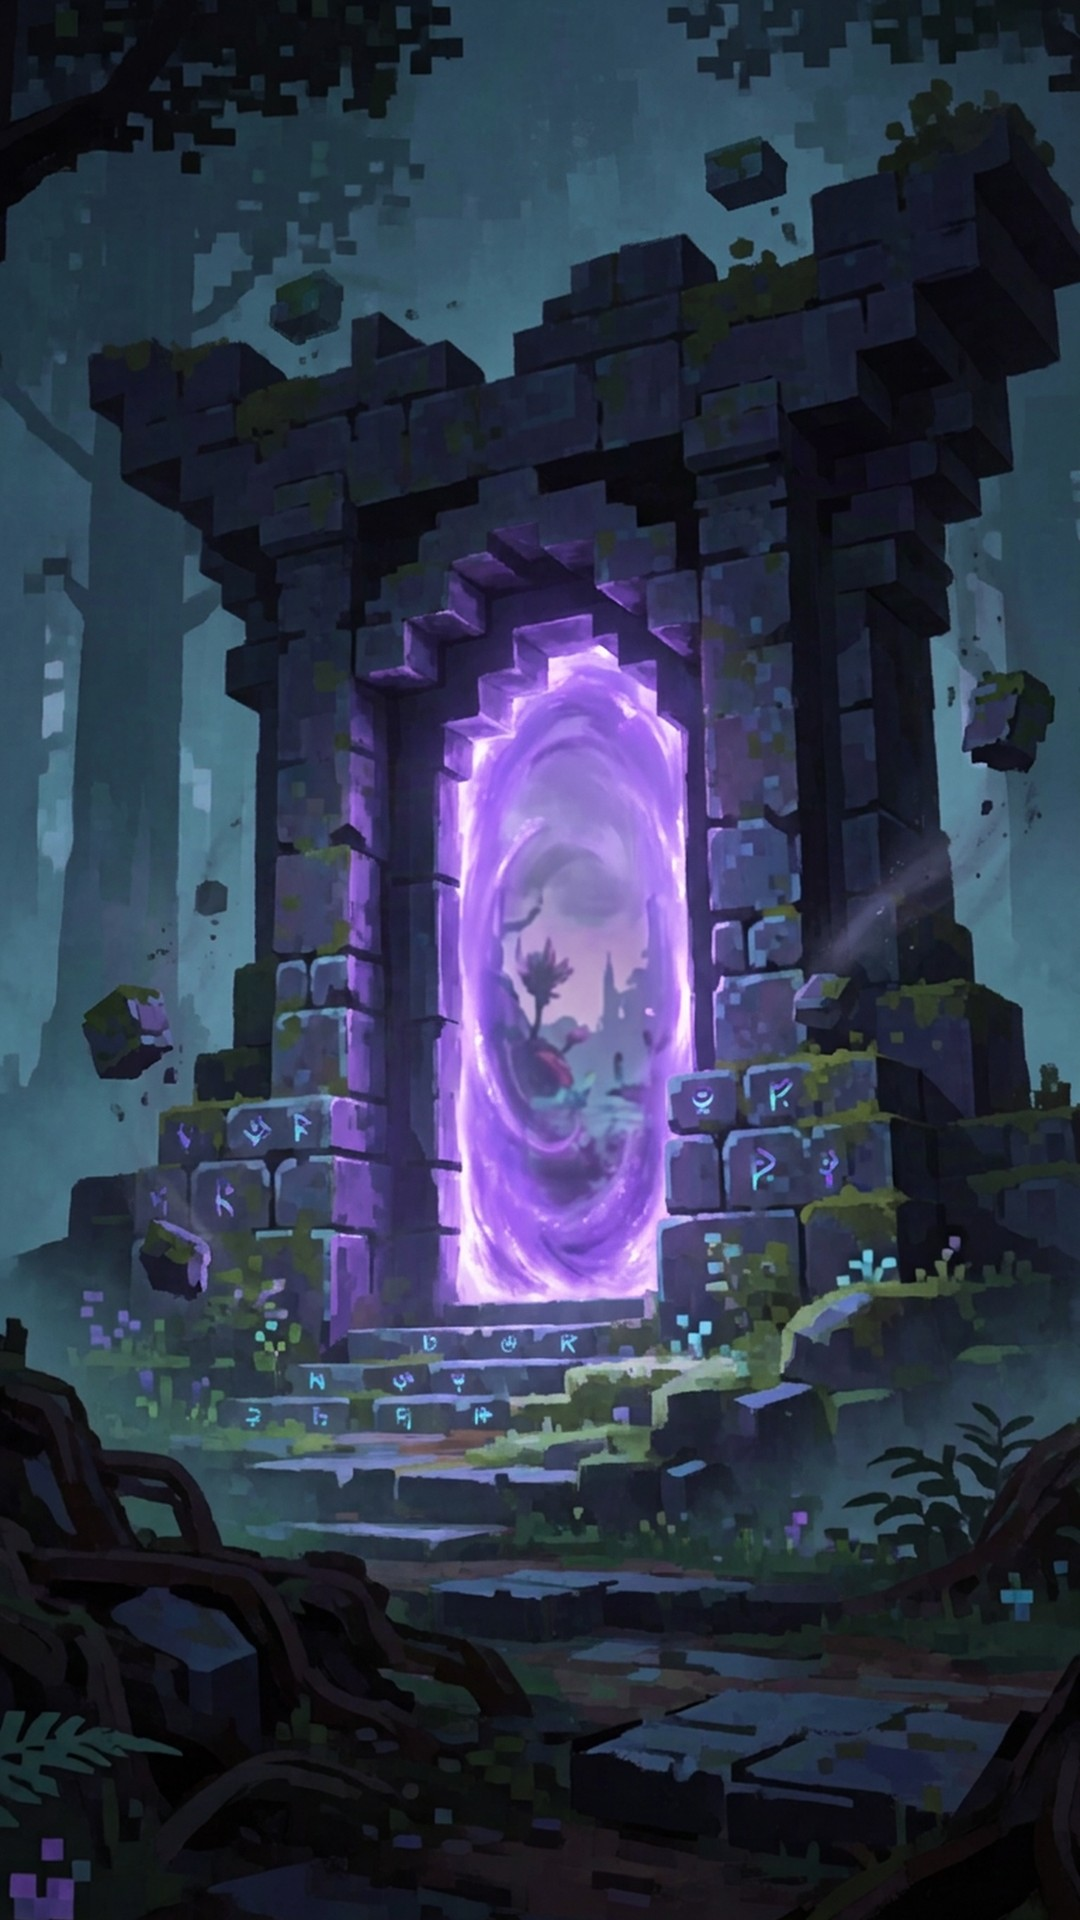
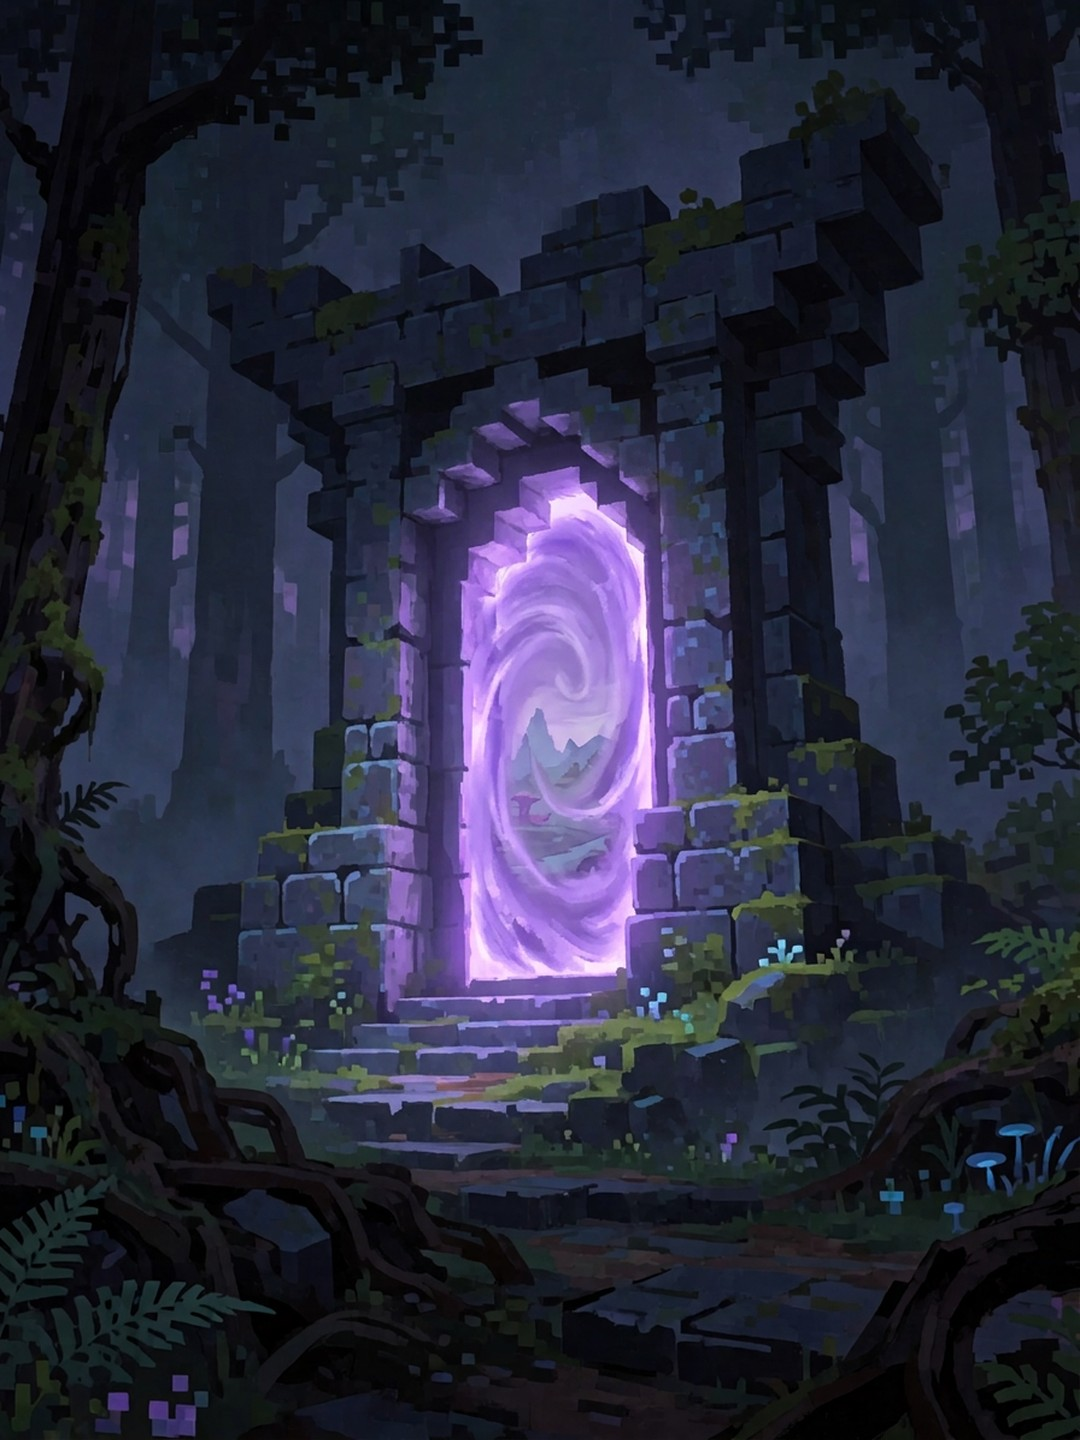
Use the 9:12 gates and the stone progress bar.
The install and update posters keep their full arch, and both working gates fill the stone bar.

diff --git a/src/bin/rus-gate.rs b/src/bin/rus-gate.rs
@@ -20,7 +20,7 @@ use std::time::Duration;
 
 const REPO: &str = "obsifox/rus";
 const WINDOW_W: f32 = 420.0;
-const WINDOW_H: f32 = 746.0;
+const WINDOW_H: f32 = 560.0;
 
 const BG: egui::Color32 = egui::Color32::from_rgb(0x16, 0x26, 0x5A);
 const SURFACE: egui::Color32 = egui::Color32::from_rgb(0x10, 0x19, 0x40);
@@ -108,6 +108,8 @@ struct Gate {
     install_blur: Option<egui::TextureHandle>,
     update_blur: Option<egui::TextureHandle>,
     logo: Option<egui::TextureHandle>,
+    bar_empty: Option<egui::TextureHandle>,
+    bar_fill: Option<egui::TextureHandle>,
 }
 
 impl Gate {
@@ -117,9 +119,13 @@ impl Gate {
         let (install_art, install_blur) = load_pair(&cc.egui_ctx, "gate-install", include_bytes!("../../assets/gate-install.jpg"));
         let (update_art, update_blur) = load_pair(&cc.egui_ctx, "gate-update", include_bytes!("../../assets/gate-update.jpg"));
         let logo = load_art(&cc.egui_ctx, "gate-logo", include_bytes!("../../assets/rus-logo-title.png"));
+        let bar_empty = load_art(&cc.egui_ctx, "bar-empty", include_bytes!("../../assets/progressbar-emp.png"));
+        let bar_fill = load_art(&cc.egui_ctx, "bar-fill", include_bytes!("../../assets/progress-fill.png"));
         let launch = shot.is_none() && (daily_launcher() || install_dir().is_some());
         let preview = shot.is_some();
-        let preview_update = preview && std::env::var("RUS_GATE_PREVIEW").ok().as_deref() == Some("update");
+        let preview_kind = std::env::var("RUS_GATE_PREVIEW").ok();
+        let preview_update = preview && preview_kind.as_deref() == Some("update");
+        let preview_install = preview && preview_kind.as_deref() == Some("install");
         let mut me = Self {
             shot,
             shot_done: false,
@@ -130,17 +136,25 @@ impl Gate {
             } else {
                 default_install_dir()
             },
-            status: if preview_update { "Checking update".into() } else { String::new() },
+            status: if preview_update {
+                "Checking update".into()
+            } else if preview_install {
+                "Installing".into()
+            } else {
+                String::new()
+            },
             error: String::new(),
-            got: if preview_update { 42 } else { 0 },
-            total: if preview_update { 100 } else { 0 },
-            working: false,
+            got: if preview_update || preview_install { 58 } else { 0 },
+            total: if preview_update || preview_install { 100 } else { 0 },
+            working: preview_install,
             rx: None,
             install_art,
             update_art,
             install_blur,
             update_blur,
             logo,
+            bar_empty,
+            bar_fill,
         };
         if launch {
             if let Some(dir) = install_dir() {
@@ -246,16 +260,9 @@ impl eframe::App for Gate {
 
 impl Gate {
     fn paint(&mut self, ui: &mut egui::Ui, full: egui::Rect) {
-        let art = if matches!(self.mode, Mode::Install) && !self.working {
-            self.install_art.as_ref()
-        } else {
-            self.update_art.as_ref()
-        };
-        let blur = if matches!(self.mode, Mode::Install) && !self.working {
-            self.install_blur.as_ref()
-        } else {
-            self.update_blur.as_ref()
-        };
+        let install_screen = matches!(self.mode, Mode::Install);
+        let art = if install_screen { self.install_art.as_ref() } else { self.update_art.as_ref() };
+        let blur = if install_screen { self.install_blur.as_ref() } else { self.update_blur.as_ref() };
         if let Some(art) = art {
             paint_cover(ui, art, full);
         }
@@ -306,7 +313,7 @@ impl Gate {
     }
 
     fn paint_status(&mut self, ui: &mut egui::Ui, full: egui::Rect) {
-        let bar = egui::Rect::from_min_size(egui::pos2(full.left() + 36.0, full.bottom() - 56.0), egui::vec2(full.width() - 72.0, 8.0));
+        let bar = stone_bar_rect(full);
         let raw = if self.error.is_empty() {
             if self.status.is_empty() { "Checking update" } else { self.status.as_str() }
         } else {
@@ -314,8 +321,7 @@ impl Gate {
         };
         let line = ellipsize(raw, 36);
         let color = if self.error.is_empty() { YELLOW } else { WARN };
-        ui.painter().text(egui::pos2(bar.left(), bar.top() - 18.0), egui::Align2::LEFT_CENTER, &line, body_font(16.0), color);
-        ui.painter().rect_filled(bar, 4.0, SURFACE);
+        ui.painter().text(egui::pos2(bar.left() + 18.0, bar.top() - 8.0), egui::Align2::LEFT_CENTER, &line, body_font(16.0), color);
         let frac = if self.total > 0 {
             (self.got as f32 / self.total as f32).clamp(0.0, 1.0)
         } else if self.working {
@@ -323,9 +329,8 @@ impl Gate {
         } else {
             0.0
         };
-        if frac > 0.0 {
-            let fill = egui::Rect::from_min_max(bar.left_top(), egui::pos2(bar.left() + bar.width() * frac, bar.bottom()));
-            ui.painter().rect_filled(fill, 4.0, YELLOW);
+        if let (Some(empty), Some(fill)) = (&self.bar_empty, &self.bar_fill) {
+            paint_stone_bar(ui, empty, fill, bar, frac);
         }
         if !self.working && !self.error.is_empty() && matches!(self.mode, Mode::Launch) {
             let retry = egui::Rect::from_min_size(egui::pos2(bar.right() - 148.0, bar.top() - 78.0), egui::vec2(148.0, 46.0));
@@ -336,6 +341,42 @@ impl Gate {
             }
         }
     }
+}
+
+fn stone_bar_rect(full: egui::Rect) -> egui::Rect {
+    let w = (full.width() - 28.0).max(180.0);
+    let h = w * (288.0 / 1291.0);
+    egui::Rect::from_min_size(
+        egui::pos2(full.center().x - w * 0.5, full.bottom() - 14.0 - h),
+        egui::vec2(w, h),
+    )
+}
+
+fn paint_stone_bar(ui: &mut egui::Ui, empty: &egui::TextureHandle, fill: &egui::TextureHandle, bar: egui::Rect, frac: f32) {
+    ui.painter().image(
+        empty.id(),
+        bar,
+        egui::Rect::from_min_max(egui::Pos2::ZERO, egui::pos2(1.0, 1.0)),
+        egui::Color32::WHITE,
+    );
+    if frac <= 0.004 {
+        return;
+    }
+    let slot = egui::Rect::from_min_max(
+        egui::pos2(bar.left() + bar.width() * 0.117, bar.top() + bar.height() * 0.337),
+        egui::pos2(bar.left() + bar.width() * 0.903, bar.top() + bar.height() * 0.653),
+    );
+    let filled = egui::Rect::from_min_max(
+        slot.left_top(),
+        egui::pos2(slot.left() + slot.width() * frac, slot.bottom()),
+    );
+    let uv = egui::Rect::from_min_max(egui::pos2(0.0, 0.0), egui::pos2(frac.clamp(0.02, 1.0), 1.0));
+    let radius = (slot.height() * 0.42).round().clamp(2.0, 18.0) as u8;
+    let size = fill.size();
+    egui::Image::from_texture((fill.id(), egui::vec2(size[0] as f32, size[1] as f32)))
+        .uv(uv)
+        .corner_radius(egui::CornerRadius::same(radius))
+        .paint_at(ui, filled);
 }
 
 fn ellipsize(text: &str, max: usize) -> String {

diff --git a/src/product.rs b/src/product.rs
@@ -3,7 +3,7 @@
 //! The line starts at `1.26.3.00`. An update changes the last two digits
 //! until the year or month component is moved on purpose.
 
-pub const VERSION: &str = "1.26.3.21";
+pub const VERSION: &str = "1.26.3.22";
 
 pub fn parse(tag: &str) -> Option<[u32; 4]> {
     let tag = tag.trim().trim_start_matches('v');
@@ -29,7 +29,7 @@ mod tests {
     #[test]
     fn starting_version_parses() {
         assert_eq!(parse("1.26.3.00"), Some([1, 26, 3, 0]));
-        assert_eq!(parse(VERSION), Some([1, 26, 3, 21]));
+        assert_eq!(parse(VERSION), Some([1, 26, 3, 22]));
         assert_eq!(parse("v1.26.3.00"), Some([1, 26, 3, 0]));
     }
 

diff --git a/README.md b/README.md
@@ -132,7 +132,7 @@ The release is Rus Gate. Download it once.
 
 | Platform | File |
 | --- | --- |
-| Windows | [rus-gate.exe](https://github.com/obsifox/rus/releases/download/1.26.3.21/rus-gate.exe) |
+| Windows | [rus-gate.exe](https://github.com/obsifox/rus/releases/download/1.26.3.22/rus-gate.exe) |
 
 <p align="center">
   <img src="docs/gate.png" alt="Rus Gate, showing the install folder on the blue poster" width="280">
@@ -143,7 +143,7 @@ Run `rus-gate.exe`. The window is vertical, with no title bar. First run shows t
 
 `Rus Launcher.exe` does not show the install step. With a connection it reads **tags**, not the release list, downloads `rus_{version}.exe` from that tag's release, and starts it. With no connection it starts the installed build.
 
-Versions are `{version}.{year}.{month}.{patch}`, starting at `1.26.3.00`. An update changes the last two digits. Current tag: `1.26.3.21`.
+Versions are `{version}.{year}.{month}.{patch}`, starting at `1.26.3.00`. An update changes the last two digits. Current tag: `1.26.3.22`.
 
 Linux builds from source with `cargo build --release`. The published release is the Windows gate.
 
